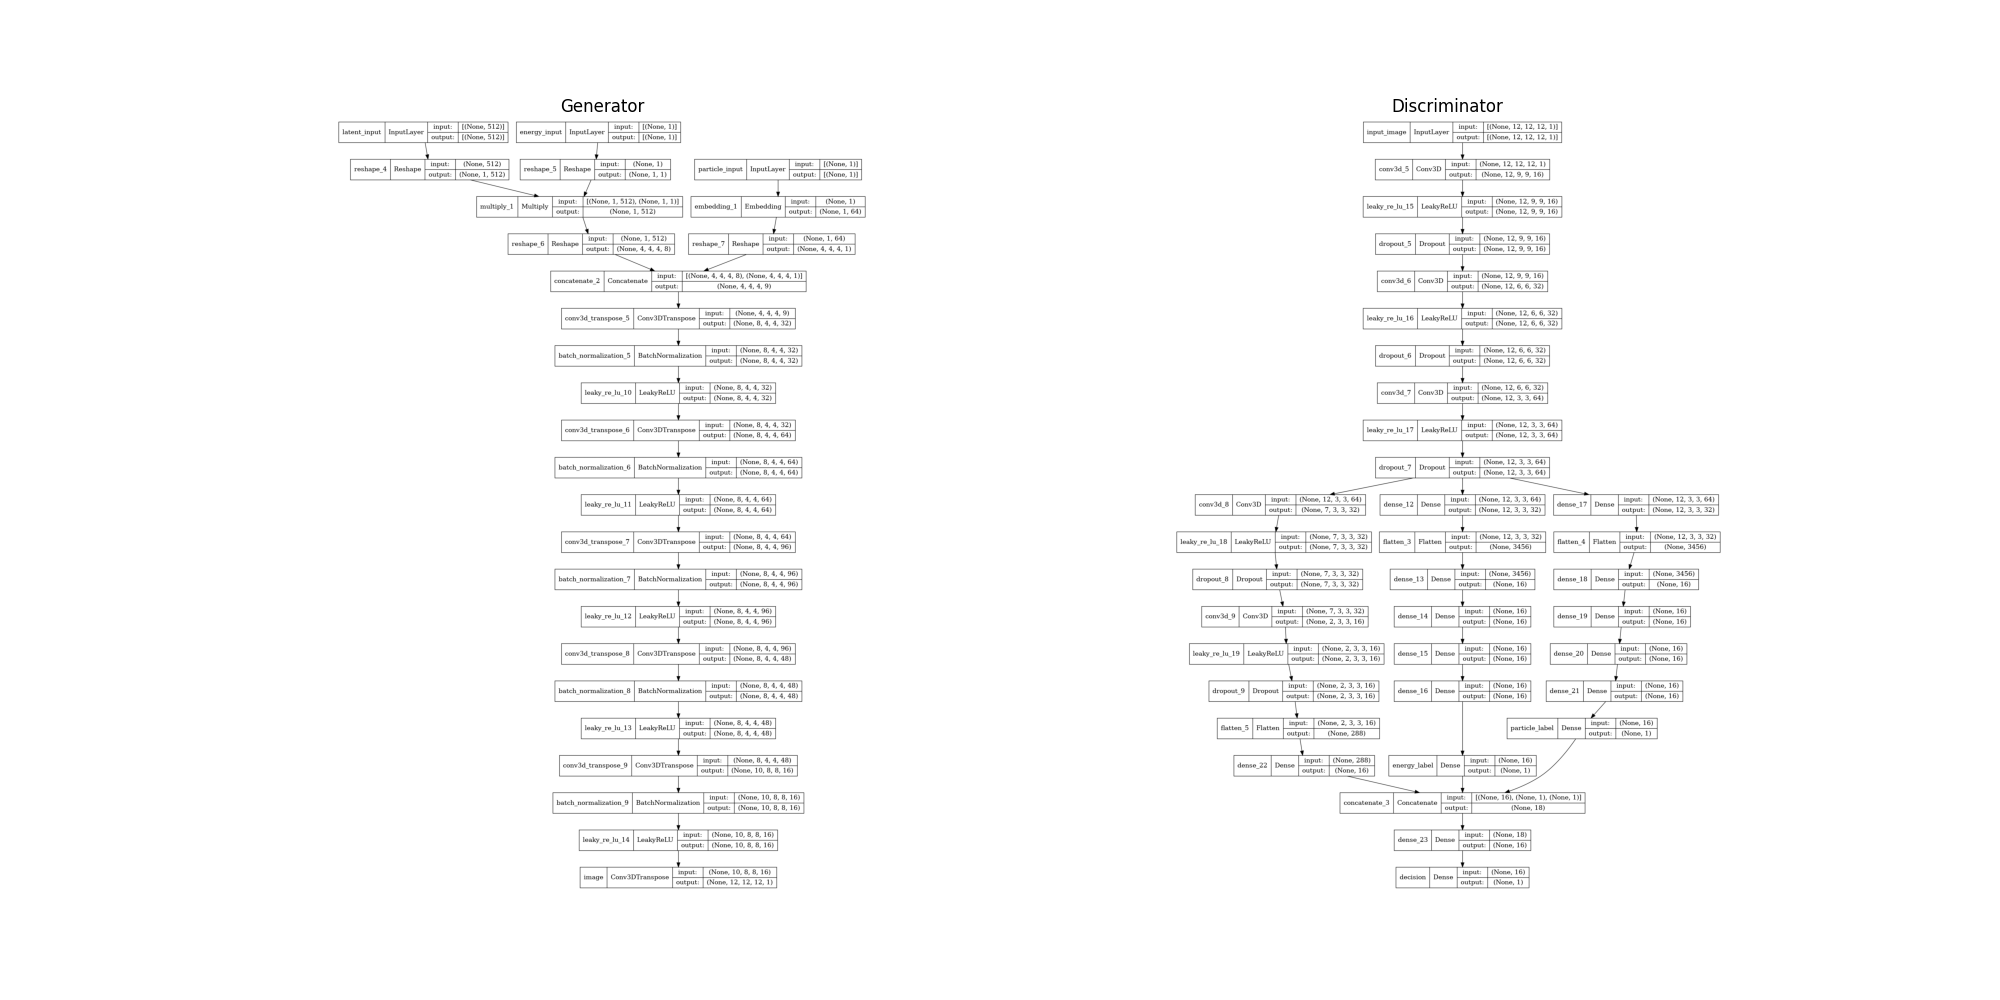
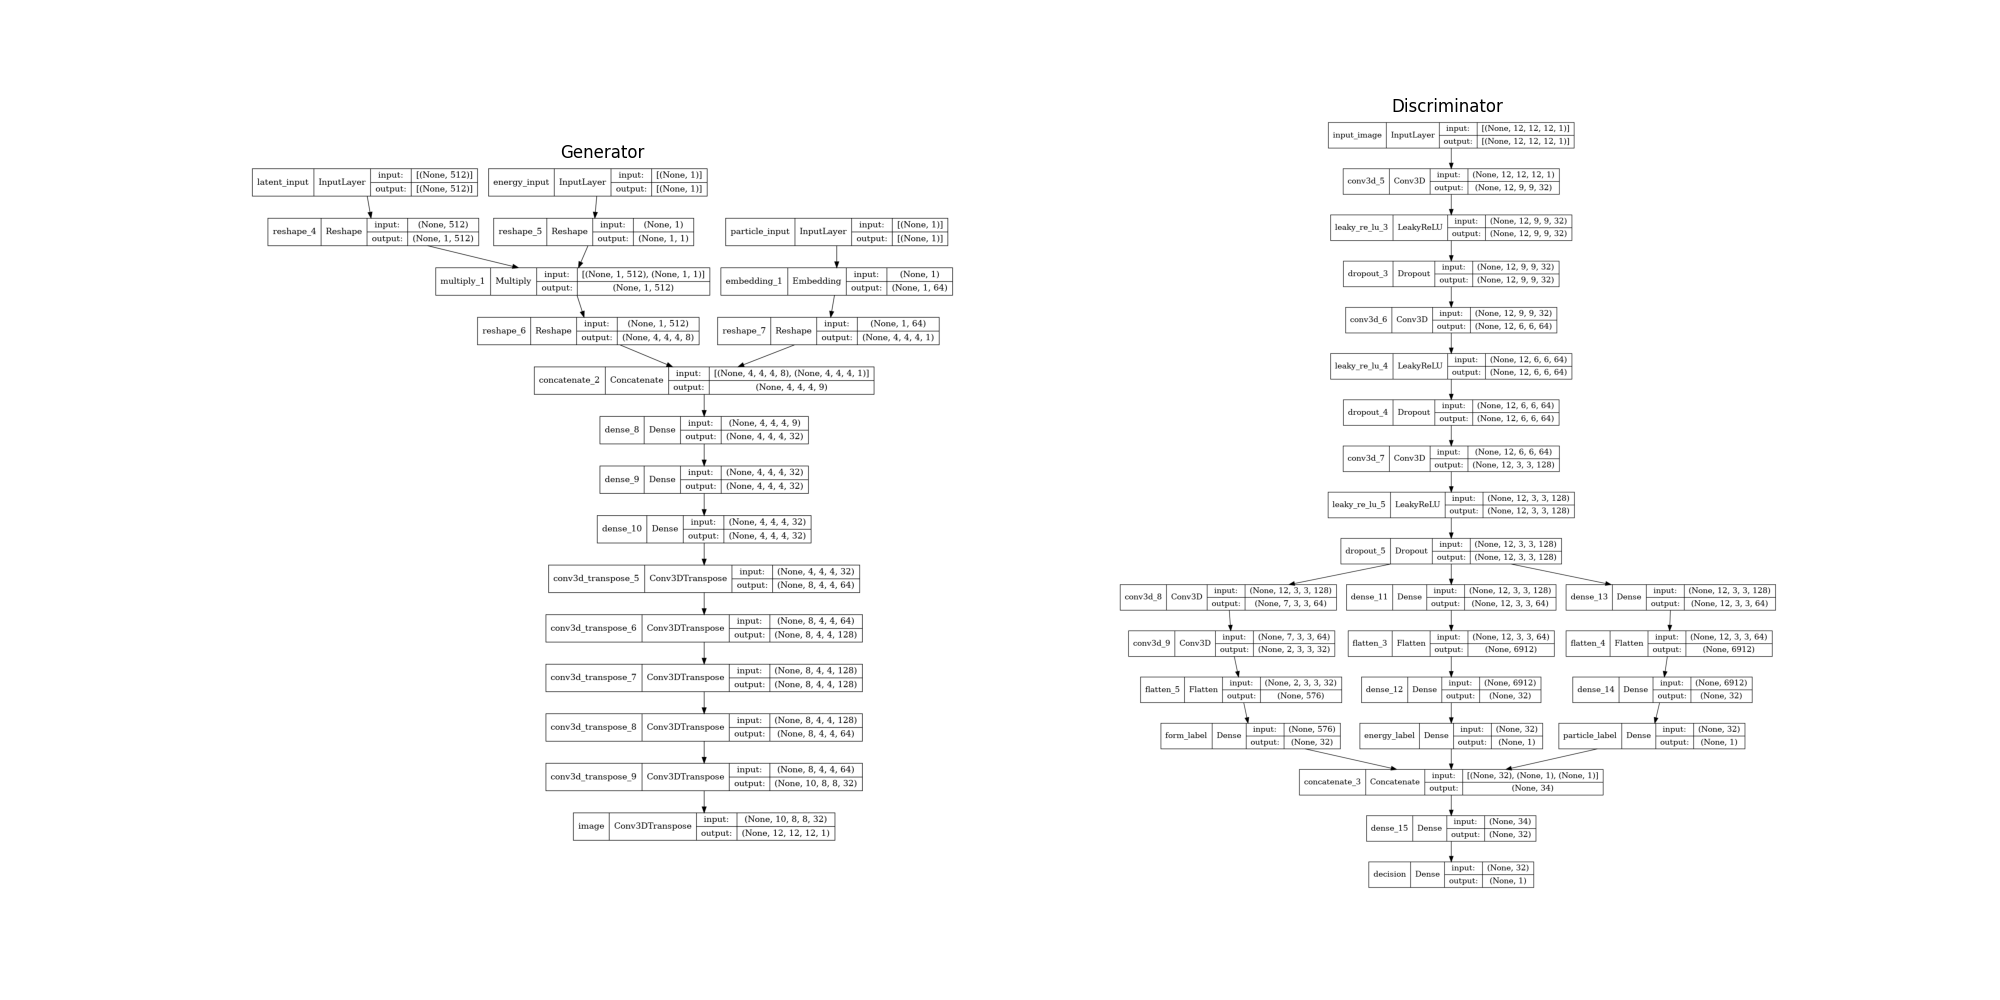
new topology implemented and reduced auxiliary conditions

Changed region(s): [[0.124, 0.093, 0.496, 0.899], [0.558, 0.124, 0.899, 0.899]]

diff --git a/EM_shower_simulator/make_models_C.py b/EM_shower_simulator/make_models_C.py
@@ -53,8 +53,9 @@ def make_generator_model():
     categorizes the labels in N_CLASSES * classes.
     """
     BASE = 4 # NOISE_DIM is multiple of BASE^3
-    FILTER = 16
+    FILTER = 32
     KERNEL = (3, 5, 5)
+    STRIDE = (2, 1, 1)
 
     EMBED_DIM = BASE*BASE*BASE
     image_shape = (BASE, BASE, BASE, -1)
@@ -83,30 +84,34 @@ def make_generator_model():
     gen = Concatenate()([gen, li_pid])
     logger.info(gen.get_shape())
 
-    gen = Conv3DTranspose(2*FILTER, KERNEL, padding="same", strides=(2,1,1))(gen)
-    logger.info(gen.get_shape())
-    gen = BatchNormalization()(gen)
-    gen = LeakyReLU(alpha=0.2)(gen)
+    gen = Dense(FILTER, activation="relu")(gen)
+    gen = Dense(FILTER, activation="relu")(gen)
+    gen = Dense(FILTER, activation="relu")(gen)
 
-    gen = Conv3DTranspose(4*FILTER, KERNEL, padding="same")(gen)
+    gen = Conv3DTranspose(2*FILTER, KERNEL, padding="same", strides=STRIDE)(gen)
     logger.info(gen.get_shape())
-    gen = BatchNormalization()(gen)
-    gen = LeakyReLU(alpha=0.2)(gen)
+    # gen = BatchNormalization()(gen)
+    # gen = LeakyReLU(alpha=0.2)(gen)
 
-    gen = Conv3DTranspose(6*FILTER, KERNEL, padding="same")(gen)
+    gen = Conv3DTranspose(4*FILTER, KERNEL, padding="same", activation="relu")(gen)
     logger.info(gen.get_shape())
-    gen = BatchNormalization()(gen)
-    gen = LeakyReLU(alpha=0.2)(gen)
+    # gen = BatchNormalization()(gen)
+    # gen = LeakyReLU(alpha=0.2)(gen)
 
-    gen = Conv3DTranspose(3*FILTER, KERNEL, padding="same")(gen)
+    gen = Conv3DTranspose(4*FILTER, KERNEL, padding="same", activation="relu")(gen)
     logger.info(gen.get_shape())
-    gen = BatchNormalization()(gen)
-    gen = LeakyReLU(alpha=0.2)(gen)
+    # gen = BatchNormalization()(gen)
+    # gen = LeakyReLU(alpha=0.2)(gen)
 
-    gen = Conv3DTranspose(FILTER, KERNEL)(gen)
+    gen = Conv3DTranspose(2*FILTER, KERNEL, padding="same", activation="relu")(gen)
     logger.info(gen.get_shape())
-    gen = BatchNormalization()(gen)
-    gen = LeakyReLU(alpha=0.2)(gen)
+    # gen = BatchNormalization()(gen)
+    # gen = LeakyReLU(alpha=0.2)(gen)
+
+    gen = Conv3DTranspose(FILTER, KERNEL, activation="relu")(gen)
+    logger.info(gen.get_shape())
+    # gen = BatchNormalization()(gen)
+    # gen = LeakyReLU(alpha=0.2)(gen)
 
     output = (Conv3DTranspose(1, KERNEL, activation="tanh", name="image")(gen))
 
@@ -173,7 +178,7 @@ def make_discriminator_model():
     layer that creates a sort of lookup-table (vector[EMBED_DIM] of floats) that
     categorizes the labels in N_CLASSES * classes.
     """
-    FILTER = 16
+    FILTER = 32
     KERNEL = (1, 4, 4)
     KERNEL2 = (6, 1, 1)
 
@@ -208,29 +213,19 @@ def make_discriminator_model():
     discr_en = Dense(2*FILTER, activation="relu")(discr)
     discr_en = Flatten()(discr_en)
     discr_en = Dense(FILTER, activation="relu")(discr_en)
-    discr_en = Dense(FILTER, activation="relu")(discr_en)
-    discr_en = Dense(FILTER, activation="relu")(discr_en)
-    discr_en = Dense(FILTER, activation="relu")(discr_en)
     output_en = Dense(1, activation="relu", name="energy_label")(discr_en)
 
     discr_id = Dense(2*FILTER, activation="relu")(discr)
     discr_id = Flatten()(discr_id)
     discr_id = Dense(FILTER, activation="relu")(discr_id)
-    discr_id = Dense(FILTER, activation="relu")(discr_id)
-    discr_id = Dense(FILTER, activation="relu")(discr_id)
-    discr_id = Dense(FILTER, activation="relu")(discr_id)
     output_id = Dense(1, activation="sigmoid", name="particle_label")(discr_id)
 
-    discr = Conv3D(2*FILTER, KERNEL2)(discr)
+    discr = Conv3D(2*FILTER, KERNEL2, activation="relu")(discr)
     logger.info(discr.get_shape())
-    discr = LeakyReLU()(discr)
-    discr = Dropout(0.2)(discr)
-    discr = Conv3D(FILTER, KERNEL2)(discr)
+    discr = Conv3D(FILTER, KERNEL2, activation="relu")(discr)
     logger.info(discr.get_shape())
-    discr = LeakyReLU()(discr)
-    discr = Dropout(0.2)(discr)
     discr = Flatten()(discr)
-    discr = Dense(FILTER, activation="relu")(discr)
+    discr = Dense(FILTER, activation="relu", name="conv_labels")(discr)
 
     merge = Concatenate()([discr, output_en, output_id])
     discr = Dense(FILTER, activation="relu")(merge)

diff --git a/EM_shower_simulator/class_GAN_C.py b/EM_shower_simulator/class_GAN_C.py
@@ -33,7 +33,7 @@ ENERGY_SCALE = 1000000.
 # Create a random seed, to be used during the evaluation of the cGAN.
 tf.random.set_seed(42)
 num_examples = 6
-test_noise = [tf.random.normal([num_examples, NOISE_DIM], stddev=0.3),
+test_noise = [tf.random.normal([num_examples, NOISE_DIM]),
               tf.random.uniform([num_examples, 1], minval= 0., maxval=N_ENER),
               tf.random.uniform([num_examples, 1], minval= 0., maxval=N_PID)]
 
@@ -304,10 +304,11 @@ class ConditionalGAN(tf.keras.Model):
             # fake_parID = c_entropy(parID, fake_output[2])
             real_parID = c_entropy(parID, real_output[2])
 
-            aux_discr_loss = (real_energ+fake_energ) * 0.025 + real_parID * 0.1
+            aux_gener_loss = computed_loss * 0.05
+            aux_discr_loss = real_energ * 0.05
 
             # Compute total losses
-            gener_loss =  computed_loss * 0.05 - fake_loss
+            gener_loss = aux_discr_loss - fake_loss
             discr_loss = aux_discr_loss + real_loss + fake_loss
 
         grad_generator = gen_tape.gradient(gener_loss,
